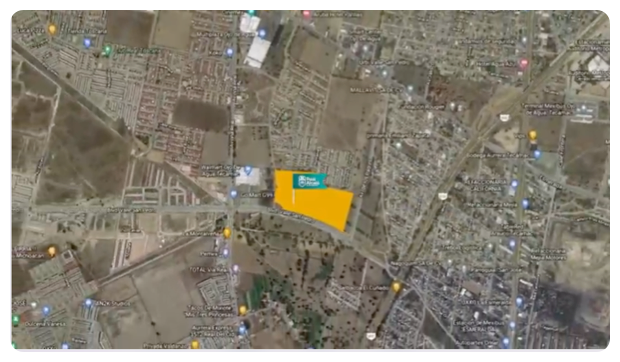
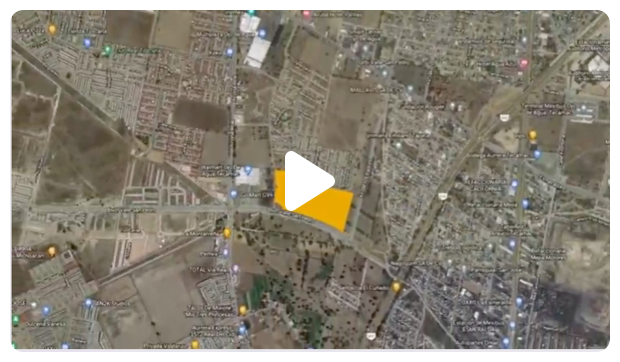
fix: alcala btn

Changed region(s): [[0.4597, 0.395, 0.5516, 0.5773]]

diff --git a/index.html b/index.html
@@ -266,10 +266,10 @@
                                 <div class="splide__track">
                                     <ul class="splide__list">
                                         <li class="splide__slide">
-                                            <img src="/assets/images/models/f_olivenza.webp" alt="">
+                                            <img class="w-100" src="/assets/images/models/f_olivenza.webp" alt="">
                                         </li>
                                         <li class="splide__slide">
-                                            <img src="/assets/images/models/p_olivenza.webp" alt="">
+                                            <img class="w-100" src="/assets/images/models/p_olivenza.webp" alt="">
                                         </li>
                                     </ul>
                                 </div>
@@ -388,10 +388,10 @@
                                 <div class="splide__track">
                                     <ul class="splide__list">
                                         <li class="splide__slide">
-                                            <img src="/assets/images/models/f_montesino.webp" alt="">
+                                            <img class="w-100" src="/assets/images/models/f_montesino.webp" alt="">
                                         </li>
                                         <li class="splide__slide">
-                                            <img src="/assets/images/models/p_montesino.webp" alt="">
+                                            <img class="w-100" src="/assets/images/models/p_montesino.webp" alt="">
                                         </li>
                                     </ul>
                                 </div>
@@ -509,10 +509,10 @@
                                 <div class="splide__track">
                                     <ul class="splide__list">
                                         <li class="splide__slide">
-                                            <img src="/assets/images/models/f_pontevelo.webp" alt="">
+                                            <img class="w-100" src="/assets/images/models/f_pontevelo.webp" alt="">
                                         </li>
                                         <li class="splide__slide">
-                                            <img src="/assets/images/models/p_pontevelo.webp" alt="">
+                                            <img class="w-100" src="/assets/images/models/p_pontevelo.webp" alt="">
                                         </li>
                                     </ul>
                                 </div>
@@ -629,10 +629,10 @@
                                 <div class="splide__track">
                                     <ul class="splide__list">
                                         <li class="splide__slide">
-                                            <img src="/assets/images/models/f_scordia.webp" alt="">
+                                            <img class="w-100" src="/assets/images/models/f_scordia.webp" alt="">
                                         </li>
                                         <li class="splide__slide">
-                                            <img src="/assets/images/models/p_scordia.webp" alt="">
+                                            <img class="w-100" src="/assets/images/models/p_scordia.webp" alt="">
                                         </li>
                                     </ul>
                                 </div>
@@ -797,12 +797,13 @@
                             <span class="label ph4 pv2 dib white fw6 tc mb3">Video Ubicación</span>
                             <div class="location_video relative">
                                 
-                                <span class="grow wistia_async_3qopi37s16 popover=true popoverAnimateThumbnail=true popoverContent=link location-btn">
-                                    <a class="grow" href="#">
-                                        <img class="center play_location " src="/assets/images/simple_play.svg" alt="Play Button" /></a>
+                                <span class="wistia_embed wistia_async_3qopi37s16 popover=true popoverAnimateThumbnail=true popoverContent=link location-btn">
+                                    <a href="#">
+                                        <img src="/assets/images/location_bg.webp" alt="Real">
+                                        </a>
                                 </span>
                                 
-                                <img src="/assets/images/location_bg.webp" alt="Real;">
+                                
                             </div>
                             <span class="label ph4 pv2 dib white fw6 tc mv3">Mapa</span>
                             <div class="mapbox">

diff --git a/assets/css/main.css b/assets/css/main.css
@@ -353,20 +353,21 @@ nav ul li a{
     border-radius: .5rem;
 
 }
+.play_location{
+    position: absolute;
+    z-index: 999;
+    left: 45%;
+    top: 30%;
+}
 .contact{
     background-color: var(--light-gray);
     color: var(--darkgray);
 }
-.location-btn{
-    position: absolute;
-    top: 38%;
-    right: 45%;
-    z-index: 90;
-}
+
 .label{
     background-color: var(--acent);
     clip-path: polygon(95% 0%, 100% 48%, 95% 100%, 0 100%, 10% 49%, 0 0);
-    color: var()--white;
+    color: var(--white);
 }
 .mapbox{
 width: 100%;
